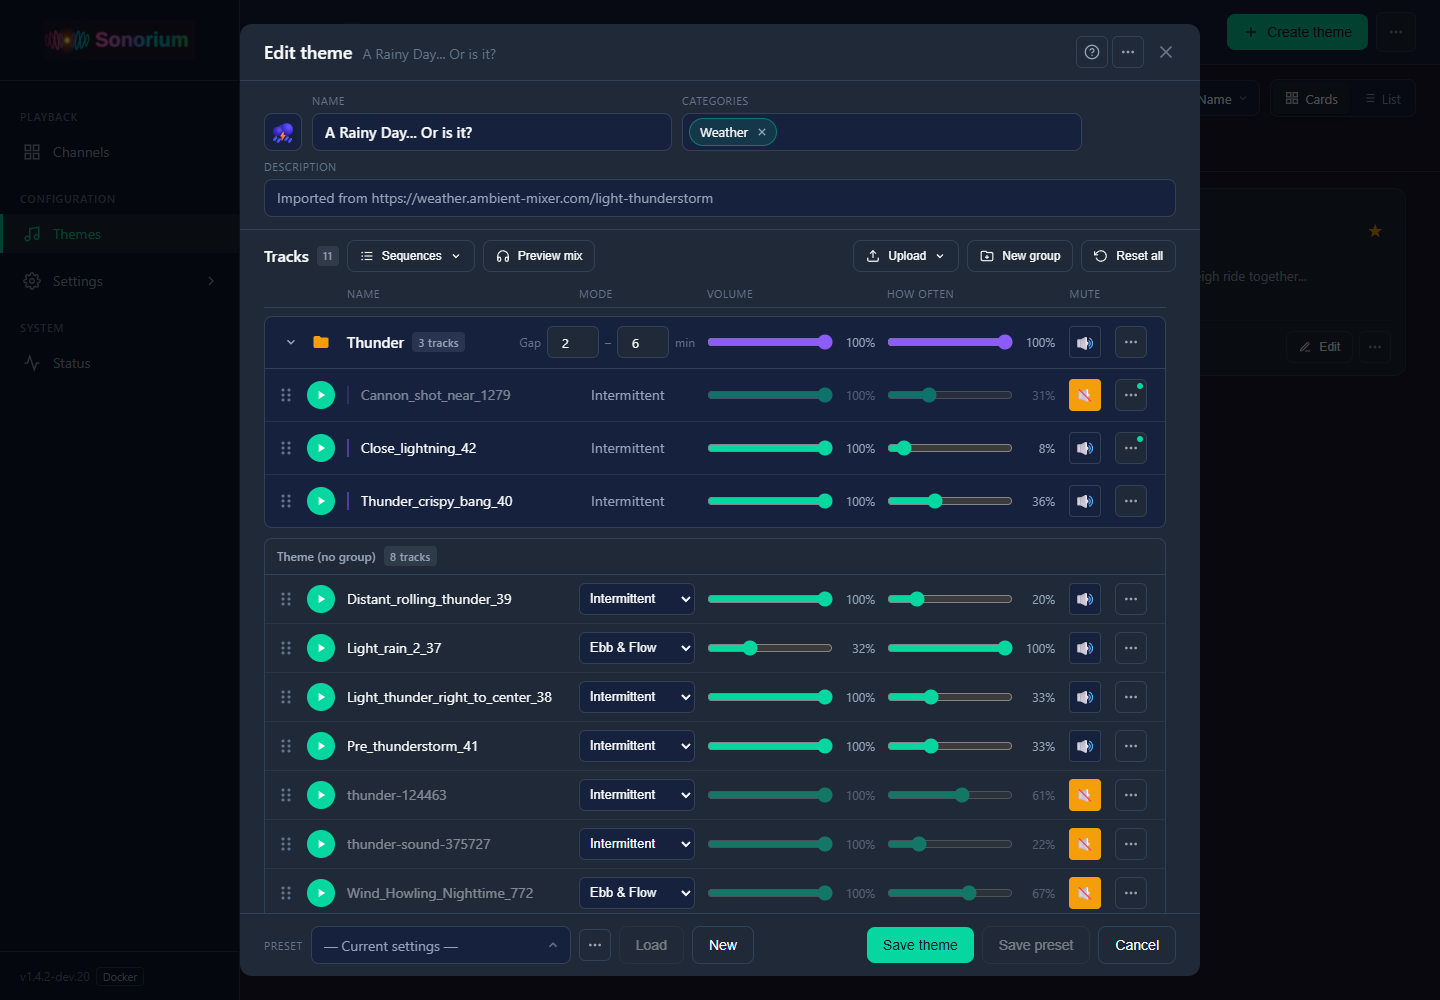
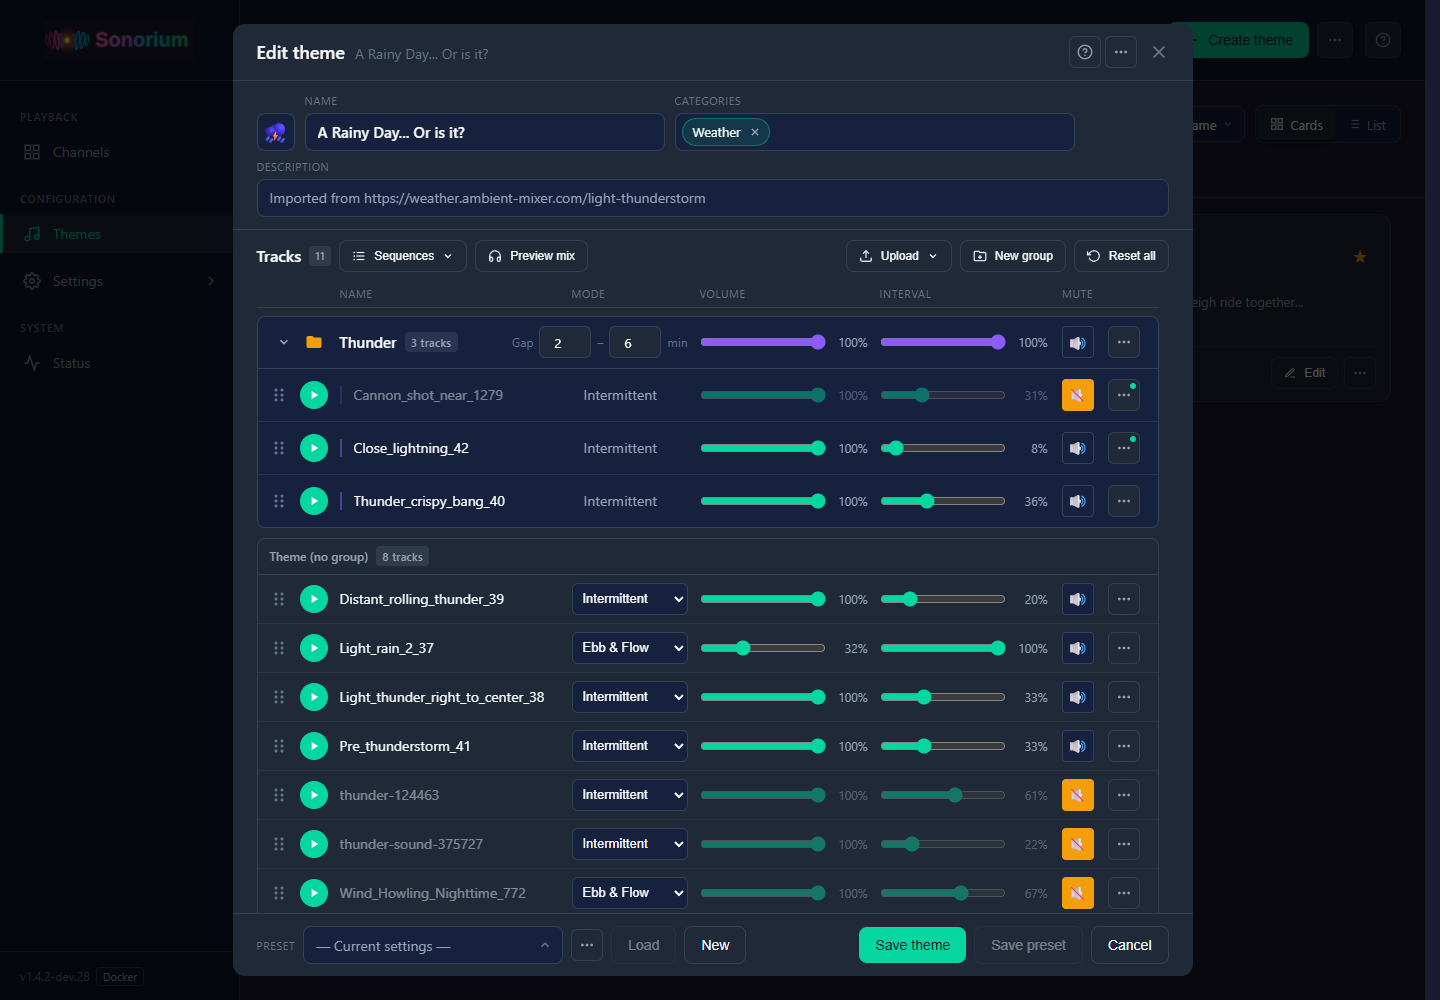
docs: 1.5.0 what's new, help definitions and new screenshots
Everything that looks, reads or behaves differently: groups and how they
pick tracks, per-channel presets, live file changes, tidy theme files, new
mode names and Interval, the Theme Editor, Themes page, Settings pages,
top bar and help on every page, phone menu, connection removal, fixes and
one known issue.

diff --git a/sonorium_addon/README.md b/sonorium_addon/README.md
@@ -6,7 +6,7 @@
 
 > ## ⭐ Major Release: 1.5.0, Themes 2.0
 >
-> This is a major update. Themes can now hold **groups**, channels playing the same theme can each use their **own preset**, the **Theme Editor** and **Themes** page are rebuilt, and the playback modes have **new names**.
+> This is a major update. Themes can now hold **groups**, channels playing the same theme can each use their **own preset**, the **Theme Editor**, the **Themes** page and every **Settings** page are rebuilt, and the playback modes have **new names**.
 >
 > Before, two channels playing the same theme shared one preset: change it on one, and it changed on both. Now each channel is isolated.
 >
@@ -63,15 +63,40 @@ The **?** button explains modes, groups and saving.
 
 ![Theme Editor help](https://raw.githubusercontent.com/synssins/sonorium/main/screenshots/Theme_Editor_Help.png)
 
-#### Settings → Speakers
-Switch speakers on or off, set their room and volume offset, and play a test sound.
+#### Settings → Connection
+Home Assistant, MQTT and Streaming, each with its status (Docker).
 
-![Speakers](https://raw.githubusercontent.com/synssins/sonorium/main/screenshots/Settings_Speakers.png)
+![Settings → Connection](https://raw.githubusercontent.com/synssins/sonorium/main/screenshots/Settings_Connection.png)
+
+#### Settings → Audio Settings
+Sound settings in one card, with Save and Cancel in the top bar.
+
+![Settings → Audio Settings](https://raw.githubusercontent.com/synssins/sonorium/main/screenshots/Settings_Audio.png)
+
+#### Settings → Speakers
+Speakers grouped by floor and area: rename, area, offset, test sound, on or off.
+
+![Settings → Speakers](https://raw.githubusercontent.com/synssins/sonorium/main/screenshots/Settings_Speakers.png)
+
+#### Add Speaker
+Add a speaker the network scan didn't find, by its address (Docker).
+
+![Add Speaker](https://raw.githubusercontent.com/synssins/sonorium/main/screenshots/Add_Speaker.png)
 
 #### Settings → Logs
 Recent messages with filters, search, copy and download.
 
-![Logs](https://raw.githubusercontent.com/synssins/sonorium/main/screenshots/Settings_Logs.png)
+![Settings → Logs](https://raw.githubusercontent.com/synssins/sonorium/main/screenshots/Settings_Logs.png)
+
+#### Help on every page
+The **?** in the top bar explains the page you're on.
+
+![Help on every page](https://raw.githubusercontent.com/synssins/sonorium/main/screenshots/Page_Help.png)
+
+#### On a phone
+The menu opens from the top bar.
+
+<img src="https://raw.githubusercontent.com/synssins/sonorium/main/screenshots/Phone_Themes.png" width="260" alt="Themes on a phone"> <img src="https://raw.githubusercontent.com/synssins/sonorium/main/screenshots/Phone_Menu.png" width="260" alt="Menu on a phone">
 
 ## Features
 
@@ -103,13 +128,13 @@ Recent messages with filters, search, copy and download.
 Fine-tune how each audio file plays within a theme:
 
 - **Interval** - Set how often each track is heard in the mix (0-100%)
-- **Per-Track Volume** - Adjust the amplitude of individual tracks independent of presence.
+- **Per-Track Volume** - Adjust the amplitude of individual tracks independent of interval.
 - **Playback Modes** - Choose how each track behaves:
   - **Auto** - Picks for you: sounds under 15 seconds play Intermittent and longer ones play Ebb & Flow; at 100% "interval", either plays as Background
   - **Background** - Plays all the time, looping with a smooth crossfade (rain, wind, a crackling fire)
   - **Intermittent** - Plays once, then goes quiet for a while before playing again; "interval" sets the wait (bird calls, thunder claps, a door creaking)
   - **Ebb & Flow** - Fades in, plays for a while, fades out, then stays quiet before coming back; "interval" sets how much of the time it's heard (distant traffic, a passing crowd)
-- **Groups** - A group is a folder inside the theme whose tracks take turns: only one plays at a time, never overlapping, with a random gap (in minutes) between them. Every track in a group plays Intermittent: its whole file once, on its turn. Background and Ebb & Flow are for the ambience outside groups. Deleting a group keeps its files.
+- **Groups** - A group is a folder inside the theme whose tracks take turns: only one plays at a time, never overlapping, with a random gap (in minutes) between them. Every track in a group plays Intermittent: its whole file once, start to finish, with no fade. The group picks the next track: a track that just played is less likely to be picked for a while, the same track never plays twice in a row, and each track's interval sets how quickly it comes back. Background and Ebb & Flow are for the ambience outside groups. Deleting a group keeps its files.
 
 #### Home Assistant Dashboard Integration
 - **MQTT Entities** - Full dashboard control via MQTT (session select, theme/preset dropdowns, play/stop, volume)
@@ -118,7 +143,8 @@ Fine-tune how each audio file plays within a theme:
 - **Automation Support** - Use HA automations to trigger soundscapes (morning alarms, schedules, etc.)
 
 #### Modern Web Interface
-- **Responsive Design**: Works on desktop and mobile
+- **Responsive Design**: Works on desktop and mobile; on a phone the menu opens from a top bar that's always there
+- **Help on Every Page**: The **?** in the top bar explains the page you're on
 - **Dark Theme**: Easy on the eyes
 - **Real-Time Status**: See what's playing across all channels
 - **Drag & Drop**: Upload audio files directly through the UI
@@ -237,21 +263,63 @@ automations that use the entity first.
 
 ## What's new
 
-### Themes 2.0
+### 1.5.0
 
+**Themes and playback**
 - **Groups.** A folder inside a theme is a group: its tracks take turns, one at a time, never overlapping, with a random gap between them. This replaces the need to check "Exclusive" on every track that needed to play independently of other exclusive tracks in a theme.
+- **The group picks the next track.** A track that just played is less likely to be picked for a while, and the same track never plays twice in a row. Each track's Interval sets how quickly it comes back.
+- **Grouped tracks just play.** On its turn a track plays its whole file once, start to finish, with no fade in or out. A thunder crack keeps its crack, a song its first notes.
 - **A preset per channel.** Two channels can play the same theme with different presets. Before, they shared one: changing the preset on one changed it on both.
-- **New Theme Editor.** Name, categories and description at the top; every track in one aligned table with its mode, volume, interval and mute; groups as sections you can collapse; upload, drag tracks between groups, and presets at the bottom. Changes are heard live, **Preview mix** plays the theme on the device you're editing from, and the **?** button explains it all.
-- **New Themes page.** Search, category chips, sort, and cards or a list. Each theme appears once, with its categories, a preview and a badge for the channel playing it.
-- **New mode names.** Continuous is now **Background**, Sparse is **Intermittent**, Presence is **Ebb & Flow**. Your saved settings keep working.
-- **Steadier sound.** The mix keeps an even level as tracks come and go, without clipping.
-- **Fixes.** A memory leak while playing is fixed, and tracks in a group can no longer overlap after a stall.
+- **New files join right away.** A file added to a theme that is playing joins the mix at once, with its saved settings. A removed file leaves the mix. Nothing restarts.
+- **Theme files stay tidy.** `metadata.json` and the presets follow the theme's files: a new file gets an entry with the default settings, and entries for removed files and group folders are deleted. The first time 1.5.0 starts it also clears out old leftover entries.
+- **New mode names.** Continuous is now **Background**, Sparse is **Intermittent**, Presence is **Ebb & Flow**. The "How often" slider is now **Interval**. Your saved settings keep working.
+- **Steadier sound.** The mix keeps an even level as tracks come and go, without clipping. Themes with many occasional sounds no longer play quietly.
+
+**Theme Editor**
+- **Redesigned.** Name, categories and description at the top; every track in one aligned table with its mode, volume, interval and mute; groups as sections you can collapse; upload, drag tracks between groups, and presets at the bottom.
+- **Live changes.** What you change is heard on speakers playing the theme while you edit. **Cancel** reverts unsaved changes; **Save Theme** keeps them and closes.
+- **Preview mix** plays the whole theme on the device you're editing from, without touching the speakers.
+- **Help.** The **?** button explains modes, groups and saving.
+
+**Themes page**
+- Search, category chips, sort, and cards or a list. Each theme appears once, with its categories, a preview button and a badge for the channel playing it.
+- **Create theme** asks for a name and opens the new theme in the editor.
+
+**Every page**
+- **New look.** Every page has the same top bar, lined up with the logo. Page buttons, including **Save** and **Cancel**, sit on the right of the top bar instead of at the bottom.
+- **Help on every page.** The **?** at the far right of the top bar explains that page in plain words.
+- **Settings pages** are compact and left-aligned:
+  - **Connection** shows Home Assistant, MQTT and Streaming as cards, each with a status.
+  - **Audio Settings** is a single card.
+  - **Speakers** groups speakers by floor and area.
+  - **Speaker Groups**, **Plugins**, **Advanced** and **Status** use the same layout.
+- **"Add" everywhere.** Buttons that make something new read "Add": **Add speaker**, **Add group**, **Add floor**, **Add area**. Empty pages no longer repeat the top-bar button.
+- **Confirmations** use a small prompt on the page instead of a browser pop-up.
+- **Phones.** A top bar with the menu button is always there. The menu opens downward, closes when you pick a page or tap the button again, and Settings expands in place. Cards fill the screen width and nothing scrolls sideways.
+
+**Docker and standalone**
+- **Remove a connection without a restart.** The trash button on **Settings → Connection** removes Home Assistant, and its floors, areas and speakers disappear from every list at once. Removing MQTT also removes Sonorium's entities from Home Assistant.
+- **Floors & Areas** can be added and edited outside the Home Assistant app.
+- **Settings show what applies to your install.** One install check decides which settings each install shows.
+
+**Fixes**
+- A memory leak while playing.
+- Tracks in a group could overlap after a stall.
+- Presets changed settings they hadn't saved.
+- The Settings menu cut off its last items.
+- Adding floors and areas failed with an error.
+- Deleting a speaker group in use said "session(s)" instead of "channel(s)".
+- The Theme Editor opened with a preset already selected, which made it easy to overwrite.
+
+**Known issue**
+- In the Home Assistant app, **Crossfade** and **Master output gain** on **Settings → Audio Settings** are saved but don't change the sound yet.
 
 #### How a theme plays
 
 These are the same words as the **?** help in the Theme Editor.
 
 A theme is a set of tracks (sound files) mixed together. Each track has a **mode**, a **volume** and an **interval**.
+
 
 **Modes**
 
@@ -277,8 +345,6 @@ A theme is a set of tracks (sound files) mixed together. Each track has a **mode
 - **Save Preset:** Saves loaded preset
 - **Save Theme:** Saves theme with all changes (presets, name, etc) Required after saving a preset.
 - **New:** makes a new preset from the current mix.
-
-Full history: [CHANGELOG.md](CHANGELOG.md).
 
 ## API Reference
 

diff --git a/README.md b/README.md
@@ -8,7 +8,7 @@
 
 > ## ⭐ Major Release: 1.5.0, Themes 2.0
 >
-> This is a major update. Themes can now hold **groups**, channels playing the same theme can each use their **own preset**, the **Theme Editor** and **Themes** page are rebuilt, and the playback modes have **new names**.
+> This is a major update. Themes can now hold **groups**, channels playing the same theme can each use their **own preset**, the **Theme Editor**, the **Themes** page and every **Settings** page are rebuilt, and the playback modes have **new names**.
 >
 > Before, two channels playing the same theme shared one preset: change it on one, and it changed on both. Now each channel is isolated.
 >
@@ -59,25 +59,40 @@ The **?** button explains modes, groups and saving.
 
 ![Theme Editor help](screenshots/Theme_Editor_Help.png)
 
+#### Settings → Connection
+Home Assistant, MQTT and Streaming, each with its status (Docker).
+
+![Settings → Connection](screenshots/Settings_Connection.png)
+
+#### Settings → Audio Settings
+Sound settings in one card, with Save and Cancel in the top bar.
+
+![Settings → Audio Settings](screenshots/Settings_Audio.png)
+
 #### Settings → Speakers
-Switch speakers on or off, set their room and volume offset, and play a test sound.
+Speakers grouped by floor and area: rename, area, offset, test sound, on or off.
 
-![Speakers](screenshots/Settings_Speakers.png)
+![Settings → Speakers](screenshots/Settings_Speakers.png)
 
-#### Add Speaker (Docker)
-Add a speaker the network scan didn't find, by its address.
+#### Add Speaker
+Add a speaker the network scan didn't find, by its address (Docker).
 
 ![Add Speaker](screenshots/Add_Speaker.png)
-
-#### Settings → Connection (Docker)
-Connect Home Assistant and MQTT, both optional.
-
-![Connection](screenshots/Settings_Connection.png)
 
 #### Settings → Logs
 Recent messages with filters, search, copy and download.
 
-![Logs](screenshots/Settings_Logs.png)
+![Settings → Logs](screenshots/Settings_Logs.png)
+
+#### Help on every page
+The **?** in the top bar explains the page you're on.
+
+![Help on every page](screenshots/Page_Help.png)
+
+#### On a phone
+The menu opens from the top bar.
+
+<img src="screenshots/Phone_Themes.png" width="260" alt="Themes on a phone"> <img src="screenshots/Phone_Menu.png" width="260" alt="Menu on a phone">
 
 ## Features
 
@@ -106,13 +121,13 @@ Recent messages with filters, search, copy and download.
 Fine-tune how each audio file plays within a theme:
 
 - **Interval** - Set how often each track is heard in the mix (0-100%)
-- **Per-Track Volume** - Adjust amplitude independent of presence
+- **Per-Track Volume** - Adjust amplitude independent of interval
 - **Playback Modes**:
   - **Auto** - Picks for you: sounds under 15 seconds play Intermittent and longer ones play Ebb & Flow; at 100% "interval", either plays as Background
   - **Background** - Plays all the time, looping with a smooth crossfade (rain, wind, a crackling fire)
   - **Intermittent** - Plays once, then goes quiet for a while before playing again; "interval" sets the wait (bird calls, thunder claps, a door creaking)
   - **Ebb & Flow** - Fades in, plays for a while, fades out, then stays quiet before coming back; "interval" sets how much of the time it's heard (distant traffic, a passing crowd)
-- **Groups** - A group is a folder inside the theme whose tracks take turns: only one plays at a time, never overlapping, with a random gap (in minutes) between them. Every track in a group plays Intermittent: its whole file once, on its turn. Background and Ebb & Flow are for the ambience outside groups. Deleting a group keeps its files.
+- **Groups** - A group is a folder inside the theme whose tracks take turns: only one plays at a time, never overlapping, with a random gap (in minutes) between them. Every track in a group plays Intermittent: its whole file once, start to finish, with no fade. The group picks the next track: a track that just played is less likely to be picked for a while, the same track never plays twice in a row, and each track's interval sets how quickly it comes back. Background and Ebb & Flow are for the ambience outside groups. Deleting a group keeps its files.
 
 #### Presets
 - **Save/Load Presets** - Store track settings as named presets
@@ -127,7 +142,8 @@ Fine-tune how each audio file plays within a theme:
 - **Automation Support** - Use HA automations to trigger soundscapes (morning alarms, schedules, etc.)
 
 #### Modern Web Interface
-- **Responsive Design**: Works on desktop and mobile
+- **Responsive Design**: Works on desktop and mobile; on a phone the menu opens from a top bar that's always there
+- **Help on Every Page**: The **?** in the top bar explains the page you're on
 - **Dark Theme**: Easy on the eyes
 - **Real-Time Status**: See what's playing across all channels
 - **Drag & Drop**: Upload audio files directly through the UI
@@ -256,21 +272,63 @@ Full documentation is available in the **[Wiki](https://github.com/synssins/sono
 
 ## What's new
 
-#### Themes 2.0
+#### 1.5.0
 
+**Themes and playback**
 - **Groups.** A folder inside a theme is a group: its tracks take turns, one at a time, never overlapping, with a random gap between them. This replaces the need to check "Exclusive" on every track that needed to play independently of other exclusive tracks in a theme.
+- **The group picks the next track.** A track that just played is less likely to be picked for a while, and the same track never plays twice in a row. Each track's Interval sets how quickly it comes back.
+- **Grouped tracks just play.** On its turn a track plays its whole file once, start to finish, with no fade in or out. A thunder crack keeps its crack, a song its first notes.
 - **A preset per channel.** Two channels can play the same theme with different presets. Before, they shared one: changing the preset on one changed it on both.
-- **New Theme Editor.** Name, categories and description at the top; every track in one aligned table with its mode, volume, interval and mute; groups as sections you can collapse; upload, drag tracks between groups, and presets at the bottom. Changes are heard live, **Preview mix** plays the theme on the device you're editing from, and the **?** button explains it all.
-- **New Themes page.** Search, category chips, sort, and cards or a list. Each theme appears once, with its categories, a preview and a badge for the channel playing it.
-- **New mode names.** Continuous is now **Background**, Sparse is **Intermittent**, Presence is **Ebb & Flow**. Your saved settings keep working.
-- **Steadier sound.** The mix keeps an even level as tracks come and go, without clipping.
-- **Fixes.** A memory leak while playing is fixed, and tracks in a group can no longer overlap after a stall.
+- **New files join right away.** A file added to a theme that is playing joins the mix at once, with its saved settings. A removed file leaves the mix. Nothing restarts.
+- **Theme files stay tidy.** `metadata.json` and the presets follow the theme's files: a new file gets an entry with the default settings, and entries for removed files and group folders are deleted. The first time 1.5.0 starts it also clears out old leftover entries.
+- **New mode names.** Continuous is now **Background**, Sparse is **Intermittent**, Presence is **Ebb & Flow**. The "How often" slider is now **Interval**. Your saved settings keep working.
+- **Steadier sound.** The mix keeps an even level as tracks come and go, without clipping. Themes with many occasional sounds no longer play quietly.
+
+**Theme Editor**
+- **Redesigned.** Name, categories and description at the top; every track in one aligned table with its mode, volume, interval and mute; groups as sections you can collapse; upload, drag tracks between groups, and presets at the bottom.
+- **Live changes.** What you change is heard on speakers playing the theme while you edit. **Cancel** reverts unsaved changes; **Save Theme** keeps them and closes.
+- **Preview mix** plays the whole theme on the device you're editing from, without touching the speakers.
+- **Help.** The **?** button explains modes, groups and saving.
+
+**Themes page**
+- Search, category chips, sort, and cards or a list. Each theme appears once, with its categories, a preview button and a badge for the channel playing it.
+- **Create theme** asks for a name and opens the new theme in the editor.
+
+**Every page**
+- **New look.** Every page has the same top bar, lined up with the logo. Page buttons, including **Save** and **Cancel**, sit on the right of the top bar instead of at the bottom.
+- **Help on every page.** The **?** at the far right of the top bar explains that page in plain words.
+- **Settings pages** are compact and left-aligned:
+  - **Connection** shows Home Assistant, MQTT and Streaming as cards, each with a status.
+  - **Audio Settings** is a single card.
+  - **Speakers** groups speakers by floor and area.
+  - **Speaker Groups**, **Plugins**, **Advanced** and **Status** use the same layout.
+- **"Add" everywhere.** Buttons that make something new read "Add": **Add speaker**, **Add group**, **Add floor**, **Add area**. Empty pages no longer repeat the top-bar button.
+- **Confirmations** use a small prompt on the page instead of a browser pop-up.
+- **Phones.** A top bar with the menu button is always there. The menu opens downward, closes when you pick a page or tap the button again, and Settings expands in place. Cards fill the screen width and nothing scrolls sideways.
+
+**Docker and standalone**
+- **Remove a connection without a restart.** The trash button on **Settings → Connection** removes Home Assistant, and its floors, areas and speakers disappear from every list at once. Removing MQTT also removes Sonorium's entities from Home Assistant.
+- **Floors & Areas** can be added and edited outside the Home Assistant app.
+- **Settings show what applies to your install.** One install check decides which settings each install shows.
+
+**Fixes**
+- A memory leak while playing.
+- Tracks in a group could overlap after a stall.
+- Presets changed settings they hadn't saved.
+- The Settings menu cut off its last items.
+- Adding floors and areas failed with an error.
+- Deleting a speaker group in use said "session(s)" instead of "channel(s)".
+- The Theme Editor opened with a preset already selected, which made it easy to overwrite.
+
+**Known issue**
+- In the Home Assistant app, **Crossfade** and **Master output gain** on **Settings → Audio Settings** are saved but don't change the sound yet.
 
 ##### How a theme plays
 
 These are the same words as the **?** help in the Theme Editor.
 
 A theme is a set of tracks (sound files) mixed together. Each track has a **mode**, a **volume** and an **interval**.
+
 
 **Modes**
 
